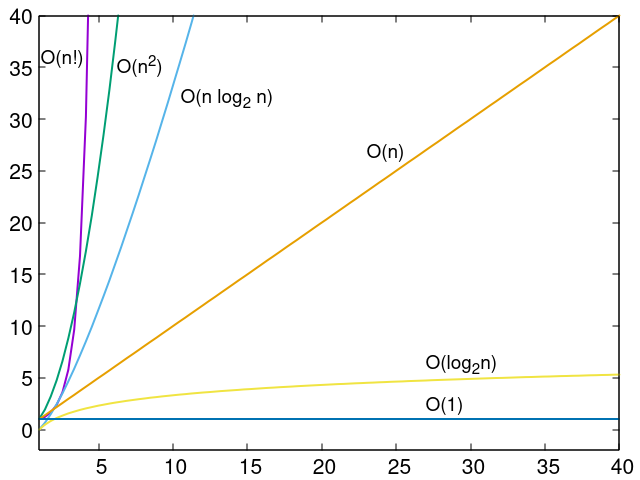
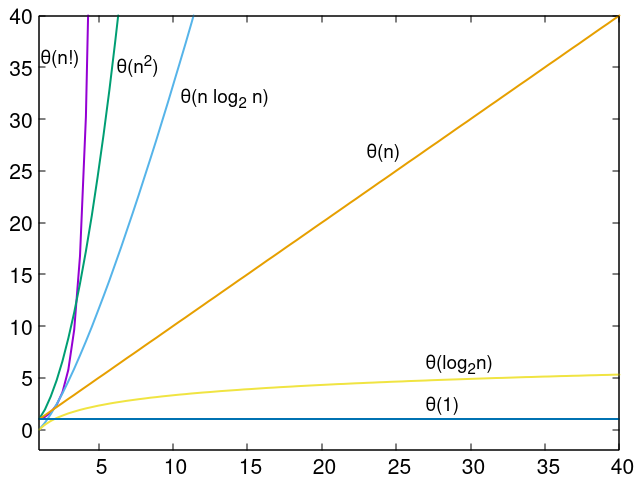
A bonyolultság javítva

diff --git a/asztali_mobil/02_Algoritmusok.md b/asztali_mobil/02_Algoritmusok.md
@@ -27,17 +27,17 @@ Egyetlen elem bonyolultáságnak ellenőrzése lineáris bonyolultásgú.
 
 #### A bonyolultságok jelölése
 
-A számításiigényt θ jelöli. Az időt O betűvel jelöljük.
+A bonyolultságot átlagos esetben a nagy θ betűvel jelöljük.
 
 ![Bonyolultság jelölése](images/bonyolultsag.png)
 
 Néhány algorimtus bonyoltsága a legrosszabb esetben:
 
-* beszúró rendezés Θ(n2)
-* buborék rendezés Θ(n2)
-* gyors rendezés Θ(n2)
-* shell-rendezés Θ(n log2 n) - függ a használt sorozattól
-* összefésülő rendezés Θ(n log n)
+* beszúró rendezés O(n2)
+* buborék rendezés O(n2)
+* gyors rendezés O(n2)
+* shell-rendezés O(n log2 n) - függ a használt sorozattól
+* összefésülő rendezés O(n log n)
 
 A legrosszabb eset jelölőit látjuk a következő ábrán:
 
@@ -259,26 +259,150 @@ class Program03
 }
 ```
 
+* [https://docs.oracle.com/javase/8/docs/api/java/util/HashMap.html](https://docs.oracle.com/javase/8/docs/api/java/util/HashMap.html)
+
+### Rekurzió
+
+Ha egy függvény vagy egy metódus önmagát hívja, akkor rekurzióról beszélünk. Ciklikusan újra és újra önmagát hívja, ezért alkalmas ciklus kiváltására is. A rekurzió írásánál ügyelnünk arra, hogy gondskodni kell annak megszakításáról, különben végtelen ciklust kapunk.
+
+A következő példa visszafele írja ki a számokat 9-től, és minden szám után a Joe szót írja szóközzel.
+
+```java
+class Program {
+    static void ki(int i) {
+        System.out.println(i + " Joe");     
+ 
+        if(i>0)
+            ki(i-1);
+    }   
+ 
+    public static void main(String args[]) {
+        ki(9);
+    }
+}
+```
+
+A rekurzió megszakításáról az if állítás gondoskodik.
+
+A következő program bekéri a számokat 0 végjelig:
+
+```java
+import java.util.Scanner;
+ 
+class Program { 
+    static void szamok() {
+        Scanner input = new Scanner(System.in); 
+        System.out.print("Szam: ");
+        int szam = input.nextInt();
+        input = null;
+        if(szam != 0)
+            szamok();
+    }   
+ 
+    public static void main(String args[]) {
+        szamok();
+    }
+}
+```
+
 ### Nevezetes algoritmusok
 
 #### Buborék rendezés
 
-* [https://szit.hu/doku.php?id=oktatas:programozas:programozasi_tetelek:mondatszeru_leiras#buborekrendezes](https://szit.hu/doku.php?id=oktatas:programozas:programozasi_tetelek:mondatszeru_leiras#buborekrendezes)
+A buborékrendezés pszeudókódja:
+
+```txt
+ciklus i = n-1 .. 1
+  ciklus j = 0 .. i-1
+    ha t[j] > t[j+1] akkor 
+      b = t[j+1]
+      t[j+1] = t[j]
+      t[j] = b
+    ha vége
+  ciklus vége
+ciklus vége
+```
+
+Java megvalósítás:
+
+```java
+class Program
+{
+    public static void main(String args[])
+    {
+        int[] tomb = {4, 8, 1, 3, 5, 2, 6};
+        int n = 7; // A tömb elemeinek száma
+ 
+        for(int i= n-1; i>0; i--)
+            for(int j=0; j<i; j++)
+                if(tomb[j] > tomb[j+1])
+                {
+                    int tmp = tomb[j];
+                    tomb[j] = tomb[j+1];
+                    tomb[j+1] = tmp;
+                }
+ 
+        for(int i=0; i<n; i++)
+            System.out.print(tomb[i] + " ");
+        System.out.println();
+    }
+}
+```
 
 #### Rendezés beszúrással
 
-* [https://szit.hu/doku.php?id=oktatas:programozas:programozasi_tetelek:mondatszeru_leiras#rendezes_beszurassal](https://szit.hu/doku.php?id=oktatas:programozas:programozasi_tetelek:mondatszeru_leiras#rendezes_beszurassal)
+```txt
+ciklus i = 0 .. n-1
+  kulcs = t[i]
+  j = i - 1
+  ciklus amíg j >= 0 és t[j] > kulcs
+    t[j+1] = t[j]
+    j = j - 1
+  ciklus vége
+  t[j+1] = kulcs
+ciklus vége
+```
+
+Java megvalósítás:
+
+```java
+public class App {
+    public static void main(String[] args) throws Exception {
+        System.out.println("Rendezés beszúrással");
+
+        int[] t = {4, 8, 1, 3, 5, 2, 6};
+        int n = 7; // A tömb elemeinek száma
+
+        for (int i = 0; i < n; i++) {
+            int kulcs = t[i];
+            int j = i - 1;
+            while(j>=0 && t[j]>kulcs) {
+                t[j+1] = t[j];
+                j = j - 1;                
+            }
+            t[j+1] = kulcs;
+        }
+
+        for(int i=0; i<n; i++)
+            System.out.print(t[i] + " ");
+        System.out.println();        
+    }
+}
+```
 
 #### Gyorsrendezés
 
-* [https://szit.hu/doku.php?id=oktatas:programozas:programozasi_tetelek:mondatszeru_leiras#gyorsrendezes](https://szit.hu/doku.php?id=oktatas:programozas:programozasi_tetelek:mondatszeru_leiras#gyorsrendezes)
+A gyorsrendezés átlagos bonyolultsága: θ( n log n)
+
+A gyorsrendezést két módon szokták megvalósítani:
+
+* tömbbel
+* helyben (helyére vivő eljárással)
+
+A gyorsrendezést általában rekuzívan valósítják meg.
 
 #### Bináris keresés
 
 * [https://szit.hu/doku.php?id=oktatas:programozas:programozasi_tetelek:mondatszeru_leiras#binaris_logaritmikus_vagy_felezeses_kereses](https://szit.hu/doku.php?id=oktatas:programozas:programozasi_tetelek:mondatszeru_leiras#binaris_logaritmikus_vagy_felezeses_kereses)
 
-### Rekurzió
 
-* [https://szit.hu/doku.php?id=oktatas:programozas:java:java_megoldasok#rekurzio](https://szit.hu/doku.php?id=oktatas:programozas:java:java_megoldasok#rekurzio)
-
-* [https://szit.hu/doku.php?id=oktatas:programozas:programozas_elmelet:tananyag#rekurzio](https://szit.hu/doku.php?id=oktatas:programozas:programozas_elmelet:tananyag#rekurzio)
